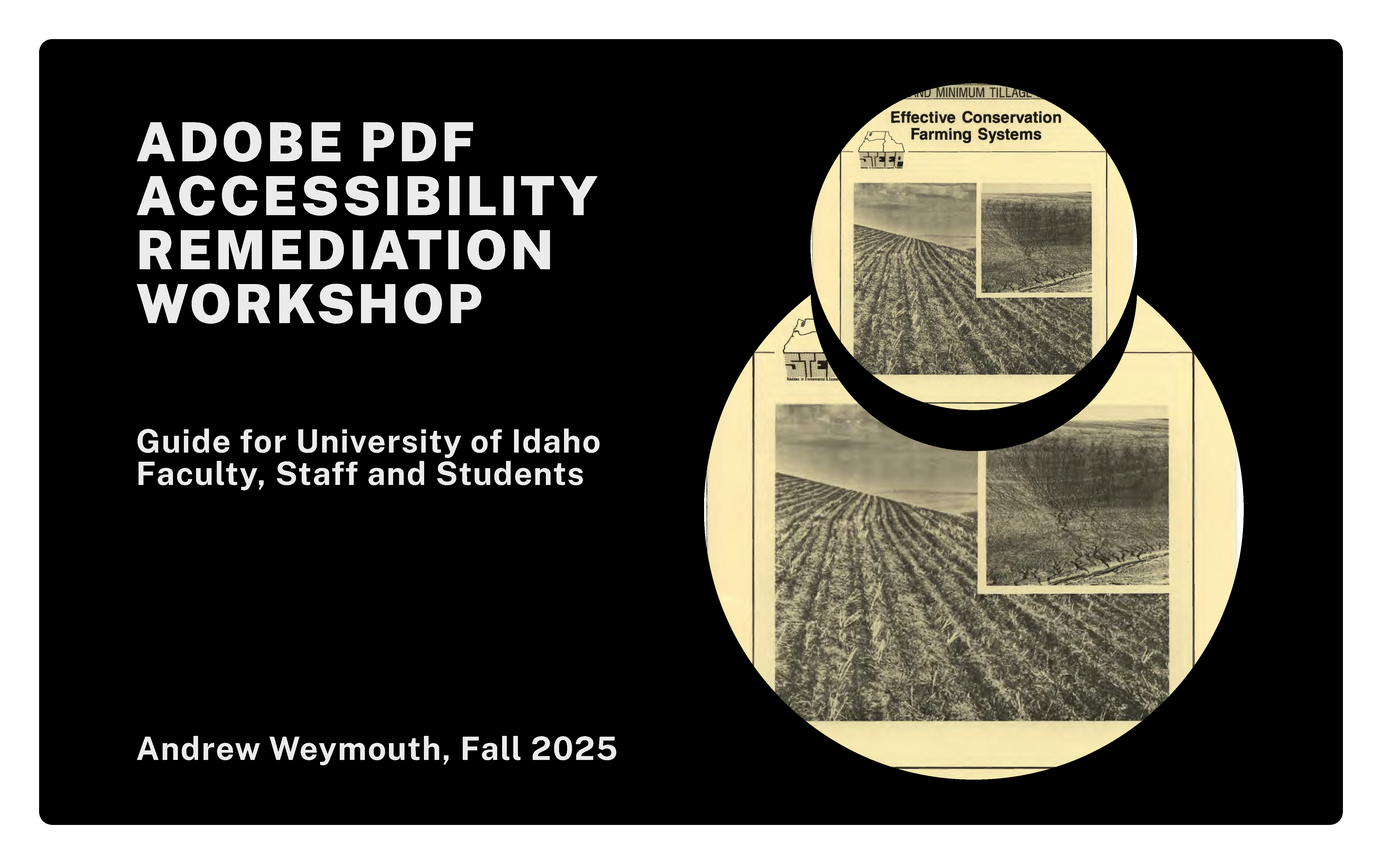
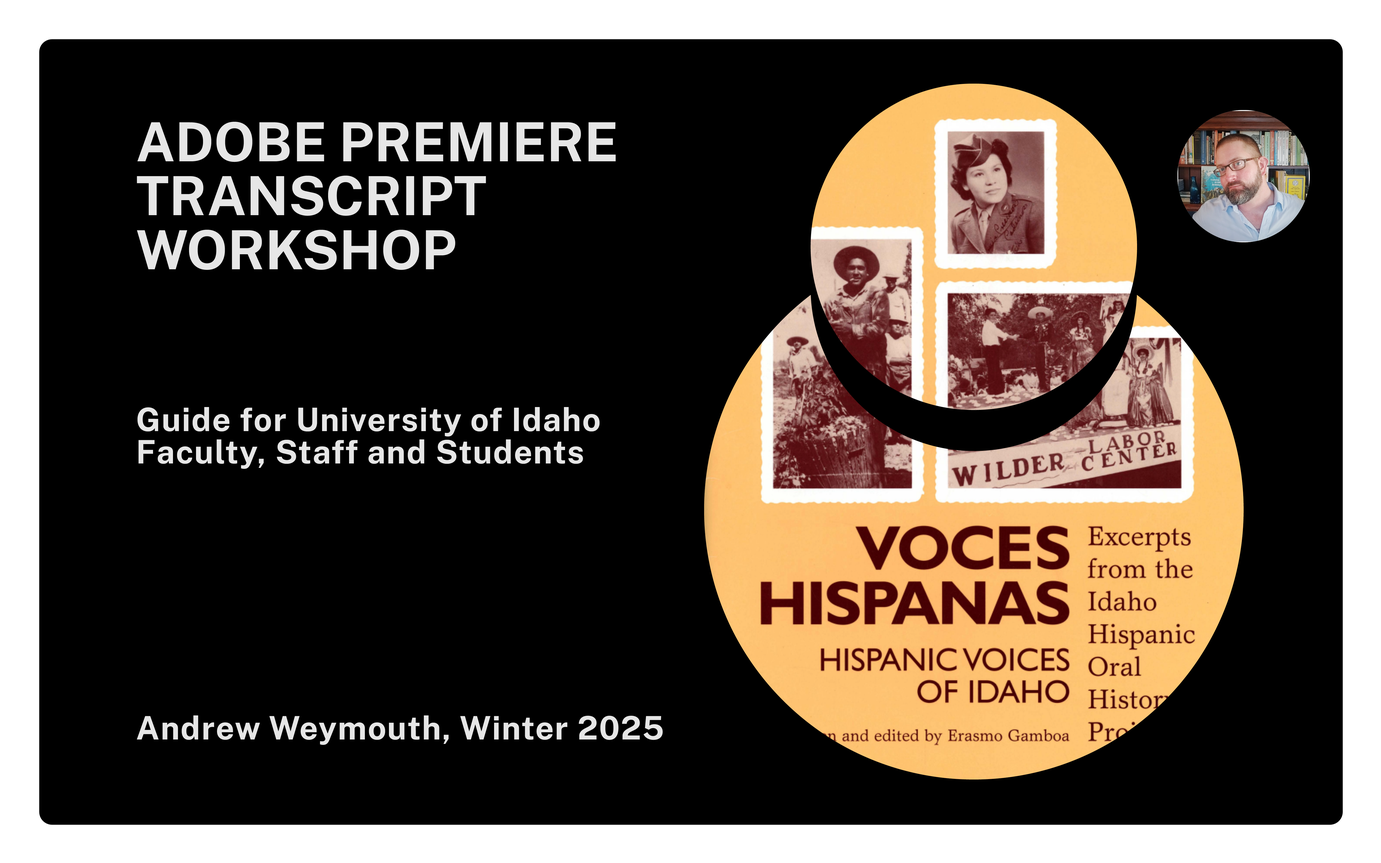
adjusted

diff --git a/content/1_guide.md b/content/1_guide.md
@@ -6,234 +6,146 @@ gallery: true
 
 <br>
 
-{% include feature/nav-menu.html sections="Getting Started;Run the Accessibility Check;Remediation Workflow;Auto Tag;Reading Order;Set the Document Language;Set the Document Title;Decorative Text vs. Alt Text;Add Alt Text;Check Lists;Check Tables;Check Hyperlinks;Verify Header Order is Sequential;Final Verification and Saving;Run the Accessibility Check Again;Save the File" %}
+{% include feature/nav-menu.html sections="Open a New Project;Import Audio or Video Files;Configure Transcript Settings;Editing and Exporting Transcripts;Creating Captions" %}
 
 <br>
 
-## Getting Started
-
-*   Open your PDF in Adobe Acrobat Pro (the free Reader version does not have these capabilities).
-*   Go to the menu bar on the side of the screen and select `Prepare for Accessibility`
-
-{% include gallery-figure.html img="remed_pdf_19.jpg" alt="A screenshot from a digital document displaying an article titled `RangeDocs: searchable science for rangeland management` by multiple authors. The left sidebar shows a list of document tools such as `Prepare for accessibility,` `Export a PDF,` and `Edit a PDF.` An article menu is open with details about the web application `RangeDocs,` including a URL. The article discusses rangeland management and features a list of points under `On the Ground.` On the right side, there is a panel labeled `Accessibility tags` listing various tags such as <H3>, <Figure>, and <P>." caption="Prepare for Accessibility on the left panel" width="100%" %}
+{% include card.html text="Select any image embedded in this guide to expand" title="Note:" color="light" align="left" %}
 
 <br>
 
-### Run the Accessibility Check
-
-This is your starting point. The checker will scan the document and generate a report of errors, warnings, and tips.
-
-*   In the `Prepare for Accessibility` panel on the left, select `Check for Accessibility`
-*   It gives you the option to save reports, but they are relatively quick to generate and you will be running it more than once, so I would uncheck this box
-
-{% include gallery-figure.html img="remed_pdf_03.jpg" alt="A digital document is open in a PDF viewer. The article is titled `Research and Partnership Highlights` with a focus on `Rangeland` by Amber Dalke and Sean Di Stefano. An `Accessibility Checker Options` dialog is open, showing various checked boxes related to document accessibility, such as `Document is tagged PDF` and `Document title is showing in title bar.` The right panel lists `Accessibility tags.` There are menu options along the top and bookmarks visible on the left." caption="Check for accessibility and uncheck report function" width="100%" %}
-
-*   Select `Start Checking` and results will generate on the right panel
+## Open a New Project
 
 <br>
 
-## Remediation Workflow
+- Open a `New Project` in Premiere
 
-If your check generated some failures (represented by a red x mark in the accessibility panel), the most frequent culprits will be the lack of a tagging structure and lack of alt text for images within the document. 
+    {% include gallery-figure.html img="premiere_transcript_07.png" alt="Screenshot of Premiere interface start menu with the New Project button on the top left." width="100%" %}
 
-{% include gallery-figure.html img="remed_pdf_04.jpg" alt="A computer screen displaying a document titled `RangeDocs: searchable science for rangeland management` by several authors. It includes text about rangeland management tools and systems. To the right, an accessibility checker panel lists various accessibility checks, indicating both passed and failed elements, such as `Tagged annotations - Failed` and `Figures alternate text - Failed.` The panel offers options for preparing the document for accessibility." caption="Accessibility checker output and failures" width="100%" %}
+- If it isn’t already set up by default, select the `Window` from the top menu and select `Text`, which should open on the top left of the interface
 
-
-The **tagging structure** informs your PDF reader application how a document is meant to be read and in what order. **Alt text** is a short, simple description of the contents of an image. While a caption below an image describes what is not visible, such as the names of the people, the location and date of the image, alt text describes only what is visible. 
-
-> Here is an example of alt text for this image: 
-{% include gallery-figure.html img="remed_pdf_15.jpg" alt="Text on a page with the title `Choosing Pear Rootstocks for the Pacific Northwest` and a subtitle indicating reprinting in January 1995. An image shows a snow-capped mountain across a grassy valley, partially obscured by a conifer tree limb. Text below the image describes the Hood River Valley as a major pear-producing region, emphasizing climate and soil type considerations. An open dialog box shows object properties, including image description and details." caption="Alt text example" width="100%" %}
->
-> "A large, snow capped mountain seen from across a grassy valley and immediately behind a conifer tree limb."
+    {% include gallery-figure.html img="premiere_transcript_01.png" alt="Screenshot of Premiere with red arrows pointing to both the Window section of the top menu and the transcript window in the top left of the interface."  width="100%" %}
 
 <br>
 
-### Auto Tag
+## Import Audio or Video Files
 
 <br>
 
-{% include gallery-figure.html img="remed_pdf_01.jpg" alt="A document titled `RangeDocs: searchable science for rangeland management` by several authors including Amber Dalke and Jason W. Karl. It features an introduction about RangeDocs, a web application aimed at helping professionals search and manage rangeland resources efficiently. A section labeled `On the Ground` lists features like a glossary, technical resource annotations, and web application capabilities. Keywords include SRM glossary, terminology, and National Range and Pasture Handbook. An accessibility tools menu is visible on the left side." caption="Automatically Tag PDF location in the accessibility panel" width="100%" %}
+- Drop the audio from the media browser window on the bottom left into the timeline on the bottom left
+
+    {% include gallery-figure.html img="premiere_transcript_08.png" alt="Screenshot of Premiere interface highlighting the media browser section."  width="100%" %}
+
+- Drag that audio into the timeline section
+
+    {% include gallery-figure.html img="premiere_transcript_06.png" alt="Screenshot of Premiere interface highlighting the timeline function."  width="100%" %}
 
 <br>
 
-*   In the `Prepare for Accessibility` tools panel, click `Automatically Tag PDF`. After this runs (takes about 1-5 minutes), it will display Accessibility tags, displaying the order of items as they display on the page.
-
-{% include gallery-figure.html img="remed_pdf_05.jpg" alt="A document titled `RangeDocs: Searchable Science for Rangeland Management` by multiple authors is displayed. It is an article in press with the Society for Range Management logo. A section labeled `On the Ground` describes the RangeDocs application and its features, including a glossary and technical resources. Keywords listed include `SRM glossary` and `information exchange.` On the side, there is a panel showing accessibility tags for various document elements." caption="Tag panel" width="100%" %}
-
-{% include feature/alert.html text="**Note**: the easiest way to navigate and expand the tag field is using your arrow keys. Up and down goes directionally through the tags and left and right expands or collapses content." color="light" align="left" %}
-
-*   **It would be great** if you could search through the tags and filter according to type so you could look at say, just your figures, tables or lists that are frequently the culprits of accessibility issues, but selecting the ellipses on the Accessibility Tags panel and selecting Find looks instead for an obscure set of terms…
+## Configure Transcript Settings
 
 <br>
 
-> The next three steps should have been completed by the Auto Tag process, but just in case…
+- With the first `Transcript` tab open on the `Text` window, you will be given a prompt that says “do you want to auto transcribe media?” Instead, select the ellipses on the top right of the transcript window and then select `Generate Static Transcript`
+
+    {% include gallery-figure.html img="premiere_transcript_03.png" alt="Screenshot of Premiere interface highlighting the transcript window and a red arrow pointing to the Generate Static Transcript function."  width="100%" %}
+
+- This will open a window where you can specify the language of your media and whether you would like to differentiate speakers in your transcript. If you have only one speaker on a recording, confirming this will keep the platform from looking for other speakers.
+
+    {% include gallery-figure.html img="premiere_transcript_02.png" alt="Screenshot of Premiere interface with Generate Static Transcript window."  width="100%" %}
+
+- Depending on the length and language of the audio, processing should take between 5-15 minutes on a Mac device (longer on a PC)
+
+- Once completed, you should have timestamps, generic speaker names (Speaker 1, Speaker 2, etc.) and dialogue
+
+    {% include gallery-figure.html img="premiere_transcript_05.png" alt="Screenshot of CSV with transcript between two speakers, timestamps and dialogue." caption="Example of Premiere Transcript output in Google Sheets" width="100%" %}
 
 <br>
 
-### Reading Order
-
-{% include gallery-figure.html img="remed_pdf_06.jpg" alt="A document titled `RangeDocs: searchable science for rangeland management` by Amber Dalke and others is displayed. The article is part of the `Research and Partnership Highlights` series. Text outlines the benefits of RangeDocs, including a rangeland-specific glossary and tools for accessing relevant information. The document also includes navigation and table of contents features on the side." caption="Reading order panel" width="100%" %}
-
-*   If anything needs correcting, select the `Fix Reading Order` tool on the left panel. This will open a window. Select `Show Reading Order`, which will open on the right pane with all of the sections. **Drag the section’s box icon up or down to reorder as needed.**
-
-{% include gallery-figure.html img="remed_pdf_20.jpg" alt="A document titled `Cultivating relationships for Indigenous futures: developing a model for university, Tribe, and Land partnerships in educator professional development` is displayed. It lists several authors from the Cultivating Relationships Collaborative. The abstract outlines efforts to integrate Indigenous knowledge and science in education. Keywords include decolonial praxis and Indigenous knowledge integration. The document has various annotations, including an accessibility checker on the right showing completed and skipped checks." caption="Window for the Fix Reading Order function" width="100%" %}
-
-*   If _everything_ needs correcting, select `Clear Page Structure`. Then draw boxes around each page element in the order they need to be read, selecting what text type they are (Header 1, Header 2, Body Text, etc.) as you order elements.
+## Editing and Exporting Transcripts
 
 <br>
 
-### Set the Document Language
-
-Without a language set, a screen reader cannot pronounce words correctly.
-
-{% include gallery-figure.html img="remed_pdf_08.jpg" alt="A document window with a dialog box in front showing `Document Properties.` The dialog box contains various settings such as `PDF Settings,` `Accessibility,` and `Reading Options.` The `Binding` option is set to `Left Edge,` and the `Language` is set to `English.` There is an arrow pointing to the `Language` option. In the background, a document titled `Research and Partnership Highlights` with authors listed as Amber Dady, Sean Di Stefano, and others is partially visible. The right side has an `Order` panel with a list of document sections and keywords." caption="Setting document language metadata" width="100%" %}
-
-*   Go to `File` > `Document Properties`
-*   Select the `Advanced` tab
-*   Under the `Reading Options` section, select the correct language from the Language dropdown menu (e.g., "English (US)")
-*   Click `OK` to save
+- While Adobe Sensei is one of the better transcription models we've tested, you will run into errors depending on the quality of the recording and the similarity of the speaker's voices
 
 <br>
 
-### Set the Document Title
-
-Screen readers should announce a document's title, not its filename.
-
-{% include gallery-figure.html img="remed_pdf_07.jpg" alt="An application window displaying document properties. The properties include details such as the file name, title, authors, subject, keywords, creation and modification dates, and application used. The title is `RangeDocs: searchable science for rangeland management.` Authors listed are Amber Dalke, Jason W. Karl, and others. The subject is `Rangelands, Corrected proof.` Keywords include `SRM glossary` and `National Range and Pasture Handbook.` The application is `Elsevier.` The background shows a PDF document with text about research and rangeland management." caption="Setting document title metadata" width="100%" %}
-
-*   Go to `File` > `Properties`.
-*   Select the `Description` tab.
-*   Enter a descriptive title in the Title field if this is missing.
-*   Click `OK`
+{% include alert.html text="One of the handy things about editing your transcripts in Premiere is that playback follows the text in the Transcript window, so it is a smoother workflow than coordinating with the audio player in one window and the transcript text in another" color="light" align="left" %}
 
 <br>
 
-## Decorative Text vs. Alt Text
+- To edit the speaker names (which default to Speaker 1, Speaker 2, etc.) select the ellipses to the left of the dialogue, edit or add additional speakers
 
-Images must have alternative text that describes their content for screen reader users. “Figures” in a document can also be identified as decorative text. 
+    {% include gallery-figure.html img="premiere_transcript_10.png" alt="Screenshot of the Premiere interface with red arrows pointing to the ellipses on the dialogue of the Transcript window, which opens the Edit Speakers module." width="100%" %}
 
-{% include gallery-figure.html img="remed_pdf_21.jpg" alt="A document about chickpeas with one decorative icon in the top left corner." caption="Example of a decorative text within a PDF document" width="100%" %}
+- To edit the dialogue, simply double click whichever passage need configuring
 
-> Ask these questions to determine if a figure is decorative text:
+    {% include gallery-figure.html img="premiere_transcript_09.png" alt="Screenshot of the Premiere interface with red arrows pointing a section of dialogue being edited." width="100%" %}
 
-*   Is the image purely for visual styling? (e.g., a border, a background texture, a corner flourish)
-*   Does it not contain any text or critical information?
-*   If you removed the image, would the user lose any understanding of the content on the page?
-*   Is it not a link or a button? (If it's clickable, it's functional, not decorative)
+- While cleaning up dialogue is easy to do in Premiere, if you need to combine dialogue sections or create new fields, these will need to be done in a spreadsheet or document
 
-<br>
+- To export, click the ellipses on the `Text` window, find `Export` and choose either `CSV` for a spreadsheet or `TXT` for a document
 
-## Add Alt Text
-
-*   First, select `Add Alternate Text` from the `Prepare for Accessibility` pane on the left. This will open a window that will allow you to add alt text to only the areas that have been identified by the Auto Tag process.
-
-{% include gallery-figure.html img="remed_pdf_09.jpg" alt="A digital screen showing a document editing interface with a sidebar menu for accessibility options. The main text is titled `RangeDocs: searchable science for rangeland management` and authored by several individuals. A pop-up window labeled `Set Alternate Text` includes a description “SRM logo with an icon of a person on a horse.” There are sections numbered with text beneath each. A file structure is visible on the right, listing various headers like `ARTICLE IN PRESS` and `On the Ground.` An arrow points to the feature `Add alternate text` in the sidebar." caption="Adding alt text within the Add Alternate Text function" width="100%" %}
-
-*   If the image has been identified correctly, describe it simply in one or two sentences, being sure to add any words that may be incorporated in the image.
-*   If the element is a decorative image, mark this box instead of adding alt text. This designation will add code so the element is skipped over by the screen reader
-*   If an element has been identified as a feature incorrectly, open the accessibility tags section on the right pane, find that section, right click and select `Properties` from the bottom of the window. Select the dropdown next to the Type section and find the appropriate type and close the panel to save.
-
-{% include gallery-figure.html img="remed_pdf_22.jpg" alt="A document titled `Cultivating relationships for Indigenous futures: developing a model for university, Tribe, and Land partnerships in educator professional development` is displayed. It lists several authors from the Cultivating Relationships Collaborative. The abstract outlines efforts to integrate Indigenous knowledge and science in education. Keywords include decolonial praxis and Indigenous knowledge integration. The document has various annotations, including an accessibility checker on the right showing completed and skipped checks." caption="Changing an element type manually through the tag panel. This is also a way you can add alt text" width="100%" %}
-
-*   Alternately, the Auto Tag function might identify a little bit of noise or distortion on the page as a figure. If this is the case, go to the Tag panel, select this item from the list, right click and select `Delete Tag`.
-
-{% include gallery-figure.html img="remed_pdf_16.jpg" alt="A document titled `Choosing Pear Rootstocks for the Pacific Northwest` by R. Stebbins, reprinted January 1995, with the code PNW 341. The text begins with a discussion on the importance of choosing the right rootstock for a new pear orchard. An image shows a landscape with a mountain in the background. There is a list of key questions to consider when choosing pear rootstocks." caption="Example of the Auto Tag function misidentifying noise on the page as a figure." width="100%" %}
+    {% include gallery-figure.html img="premiere_transcript_04.png" alt="Screenshot of Premiere interface with highlight of transcript window and red arrow pointing to Export function." width="100%" %}
 
 <br>
 
-> Next, let's check lists, tables and hyperlinks:
+## Creating Captions
 
 <br>
 
-### Check Lists:
+- First, select the `CC` Create Captions button in the `Transcript` window
 
-*   Find the list content in the Tags panel. It should be tagged as `<L>` (List), with `<LI>` (List Item) tags inside.
-*   If it's not tagged correctly, select the list content on the page with the Selection tool.
-*   Right-click the tag where you want the list to go in the Tags panel and select Create Tag from Selection. Choose `<L>` as the tag type.
+    {% include gallery-figure.html img="premiere_transcript_11.png" alt="Screenshot of Premiere interface with an arrow pointing to the Create Captions button in the Transcript window." width="100%" %}
 
-<br>
+- This will open a `Create Captions` module that will have some options for formatting, spacing and how many lines you would like the captions to display as
 
-### Check Tables:
+    {% include gallery-figure.html img="premiere_transcript_12.png" alt="Screenshot of Premiere interface with an arrow pointing to the Create Captions button." width="100%" %}
 
-*   Find the table in the Tags panel. It should be tagged as `<Table>`, with `<TR>` (Table Row), `<TH>` (Header Cell), and `<TD>` (Data Cell) tags inside.
-*   The most critical part is identifying header cells. Right-click a cell tag (`<TD>`) and select Properties. Go to the Table Header tab and choose if it is a row or column header. This changes the tag to `<TH>`.
-*   If a table is not tagged at all, use the `Fix Reading Order` tool to draw a box around the table and select "Table" from the dialog. Then, go into the Tags panel to define the headers as described above.
+- This will create a caption track, displayed above the video track on the timeline. To adjust the font, size and area that the captions will be displayed, select the entire track of dialogue in the timeline, then select `Window` from the top menu, then `Workspaces`, then `Captioning and Graphics`.
 
-<br>
+{% include gallery-figure.html img="premiere_transcript_13.png" alt="Screenshot of Premiere interface with an arrow pointing the new captions in the timeline as well as configurations in the Captions and Graphics window." width="100%" %}
 
-## Check Hyperlinks
+- To add a translated caption, select the `Caption Translation` button, then configure the correct source language as well as what you would like the language to be translated to
 
-Links need to be descriptive. **A link that reads "Click Here" is not accessible.**
+{% include gallery-figure.html img="premiere_transcript_14.png" alt="Screenshot of Premiere interface with arrows pointing to the Caption Translation button and the various options you can configure this to." width="100%" %}
 
-{% include gallery-figure.html img="remed_pdf_23.jpg" alt="A document titled `RangeDocs: searchable science for rangeland management` by Amber Dalke and others is displayed. The article is part of the `Research and Partnership Highlights` series. Text outlines the benefits of RangeDocs, including a rangeland-specific glossary and tools for accessing relevant information. The document also includes navigation and table of contents features on the side." caption="Example of how a link is nested in the tag structure. In this case, the link is descriptive because it is plainly showing the URL the hyperlink will lead to." width="100%" %}
+- Finally, adjust the positioning of the captions so they don't overlap. In this case, I have configured both caption tracks to display in two lines. By adjusting the `Set Vertical Position` of the Spanish language track to -60.00, this lifts the text up over the English language while still being generally oriented at the bottom of the display. Setting this to -30.00 should work if you chose to have captions generate in a single line display.
 
-*   In the Tags panel, find a `<Link>` tag.
-*   The text inside the `<Link>` tag should be descriptive (e.g., "DOJ Final Rule on ADA Accessibility").
+{% include gallery-figure.html img="premiere_transcript_15.png" alt="Screenshot of Premiere interface with arrows pointing at the selected caption track within the timeline and the Set Vertical Position function within the Captions and Graphics window." width="100%" %}
 
-{% include feature/alert.html text="**Note**: There is a little discrepancy here on what is recommended remediation and best practice. Recommended remediation is that, if the linked text is not descriptive, you actually use the Edit Text and Images function to visibly change the text in the document. I don't think we want to be taking this liberty with faculty PDF files. Just changing the descriptions within the link tags seems sufficient." color="light" align="left" %}
+- To export these captions, select `Export` from the top left. Within this menu you can adjust your file name, export destination, and choose to export as a video, audio, gif or image file in the `Format` section (default will be mp4, which is a solid, lower file size option). When you have everything configured, select the `Export` function in the lower right hand corner.
+
+{% include gallery-figure.html img="premiere_transcript_16.png" alt="Screenshot of Premiere interface with arrows pointing to the Export tab, Format and Export button." width="100%" %}
 
 <br>
 
-## Verify Header Order is Sequential
-
-*   Return to the Accessibility Tags pane on the right and look over header material. Make sure Headers are stepping down sequentially (<H1>, <H2>, <H3>, etc.) and not skipping a number. 
-
-{% include gallery-figure.html img="remed_pdf_11.jpg" alt="A document is open on a computer screen showing a table titled `Table 1` and contains a list with `Publisher Type` and the number of documents added to `RangeDocs.` The right side features a panel labeled `Accessibility tags` with a list of tags such as `<document>` and `<H1>,` each with a small icon and some arrows pointing to specific tags. Text in the document discusses glossary development related to RangeDocs. Menu options on the left include `Prepare for accessibility,` `Change reading options,` and various tools." caption="Checking for sequential headers within the tag panel" width="100%" %}
-
-> **When in doubt**, just designate an element as a paragraph rather than using elaborate header structures.
-
-<br>
-
-## Final Verification and Saving
-
-Once you believe you have fixed all the issues, you must verify your work and save the file correctly.
-
-<br>
-
-### Run the Accessibility Check Again
-
-*   Go back to the `Check for Accessibility` function and run the tool
-*   If anything still comes up, expand the issue and it will make all of the culprits visible
-*   Depending on the issue, you may see the option to fix the item if it is a metadata correction that can be done automatically
-*   If not, right click and select see in accessibility tags to resolve the individual issue
-
-{% include gallery-figure.html img="remed_pdf_10.jpg" alt="A document titled `Glossary development` with text discussing RangeDocs and glossary terms for rangeland management. On the left, there is a section labeled `Table 1` with a list of publisher types and the number of documents added to RangeDocs. On the right, there is an `Accessibility Checker` sidebar showing various items, such as `Logical Reading Order` and `Color contrast,` marked with arrows indicating they need manual checks." caption="Example of 'issues', rather than 'failures', in the Accessibility Checker, as well as 'manual checks'." width="100%" %}
-
-*   **Note: Some of the final elements that are flagged are “issues” not failures**. This is an odd feature of Acrobat where some items that are nonessential need to be skipped rather than these items not being flagged in the first place. Additionally, there are items that will be flagged as “needing a manual check” that are also nonessential.
-*   Repeat as needed!
-
-<br>
-
-### Save the File
-
-How you save is important to preserve your accessibility work.
-
-{% include gallery-figure.html img="remed_pdf_17.jpg" alt="Adobe Acrobat window titled `PDF Optimizer.` It includes settings for images, fonts, transparency, discard objects, discard user data, and clean up. Image settings have options for color, grayscale, and monochrome images with different resolutions and compression types. On the right, there is an `Accessibility Checker` panel with various checked items. A red arrow points to a dropdown menu labeled `Settings: Standard.` Text from a document is visible in the background." caption="PDF Optimizer set to Standard." width="100%" %}
-
-*   Go to `File` > `Save As Other` > `Optimized PDF`, making sure the settings are on standard (should be default)
-*   Click OK
+<div class="symbol-container">
+    <p class="symbol">&#10042;</p>
+</div>
 
 <br>
 
 <div style="width:100%; text-align:center;">
 
-  <div role="img" aria-label="ASCII art of a lil’ PDF feller — a smiling, anthropomorphic sheet of paper with arms and legs, looking proud of being accessible." style="background-color:white; padding:20px; border-radius:12px; display:inline-block; text-align:center; box-shadow:0 2px 6px rgba(0,0,0,0.1);">
+  <div role="img" aria-label="ASCII art of a lil’ transcript feller and a close captioned video reel feller — both smiling, celebrating how accessible they are." style="background-color:white; padding:20px; border-radius:12px; display:inline-block; text-align:center; box-shadow:0 2px 6px rgba(0,0,0,0.1);">
 
   <pre style="font-family: monospace; line-height: 1.1em; font-size: 14px; background-color:white; margin: 0 auto; display:inline-block; text-align:left;">
-       ________
-     /         \
-    |    PDF    |  
-    |   -----   |  
-    |  ( •‿• )  |  
-    |    | |    |  
-     \_________/   
-        /   \       
-       /_____\      
-        |   |       
-       (b) (b)     
+      ________                ╭──────╮
+     /         \             /        \
+    |           |           |   ╭──╮   |
+    | TRANSCRIPT|          |    │CC│    |
+    |   -----   |         |     ╰──╯     |
+    |  ( •‿^ )  |         |   ( ^‿• )    |
+    |   <   >   |          |    l  l    |
+     \_________/             \  |  |  /
+        /   \                 \______/
+       /_____\               /   |   \
+        |   |               /____|____\
+       (b) (b)             (b)        (b)
   </pre>
 
-  <p><b>That's it! Enjoy your accessible PDF file!</b></p>
+  <p><b>That's it! Enjoy your accessible transcript file and/or captioned media!</b></p>
 
   </div>
 

diff --git a/index.md b/index.md
@@ -5,17 +5,21 @@ gallery: true
 ---
 
 
-{% include gallery-figure.html img="banner.png" alt="title card of the presentation Adobe PDF Accessibility Remediation Workshop, guide for University of Idaho Faculty, staff and Students, Andrew Weymouth, Fall 2025 and an image of two circles using a PDF file called Effective Farming Systems." %}
+{% include gallery-figure.html img="banner.png" alt="title card of the presentation Adobe Premiere Transcript Workshop, guide for University of Idaho Faculty, staff and Students, Andrew Weymouth, Winter 2025 and an image of two circles using the cover of the book Voces Hispanas: Hispanic Voices of Idaho." %}
 
 <br>
 
-We have been working together to make sure our digital collections and library site meet the technical standards of the [Web Content Accessibility Guidelines 2.1](https://www.w3.org/TR/WCAG21/) by [the deadline of April 24th, 2026](https://advocacy.sba.gov/2024/04/25/justice-department-finalizes-rule-requiring-state-and-local-governments-to-make-their-websites-accessible/), and now we need to audit the PDFs attached to our VERSO pages towards this effort. 
-
-> The following steps will guide you through how to remediate a PDF file for accessibility using Acrobat Pro, as of fall 2025. 
-
-**Full disclosure**: I'm not a fan of Acrobat as an application. You will find some of the semantics and architecture of the application are vague, unintuitive and overly complicated and there is an opportunity to develop in-house tools that will perform these tasks more efficiently. That said, this guide will address the PDF files currently in VERSO before the April 24th timeline. 
+At the library, we have been working together to make sure our digital collections and main site meet the technical standards of the [Web Content Accessibility Guidelines 2.1](https://www.w3.org/TR/WCAG21/) and part of those efforts has been to make sure all of our video and audio files have transcripts. This is beneficial not only for our patrons using screen readers but also for all of our patrons to make oral history recordings keyword searchable.
 
 <br>
+
+> The following steps will guide you through how to generate a transcript of either audio or video files using Adobe Premiere. This will also describe how to edit and export these files or turn your transcripts into captions. 
+
+<br>
+
+**A Note for Students**:
+
+Adobe Suite, which includes Premiere, [is listed as being available on the student lab computers](https://support.uidaho.edu/TDClient/40/Portal/KB/ArticleDet?ID=89) on the second floor of the library. Premiere is also available in the [digital editing station of the studio](https://www.lib.uidaho.edu/studio/equipment.html), which can be reserved [here](https://libcal.uidaho.edu/reserve/AV) . If students want to access Premiere through their devices, they need to be [enrolled in a course where the software is required](https://support.uidaho.edu/TDClient/40/Portal/KB/ArticleDet?ID=2709), and they can do that through [this OIT student software request form](https://support.uidaho.edu/TDClient/40/Portal/Requests/ServiceDet?ID=755).
 
 {% include toc.html %}
 
